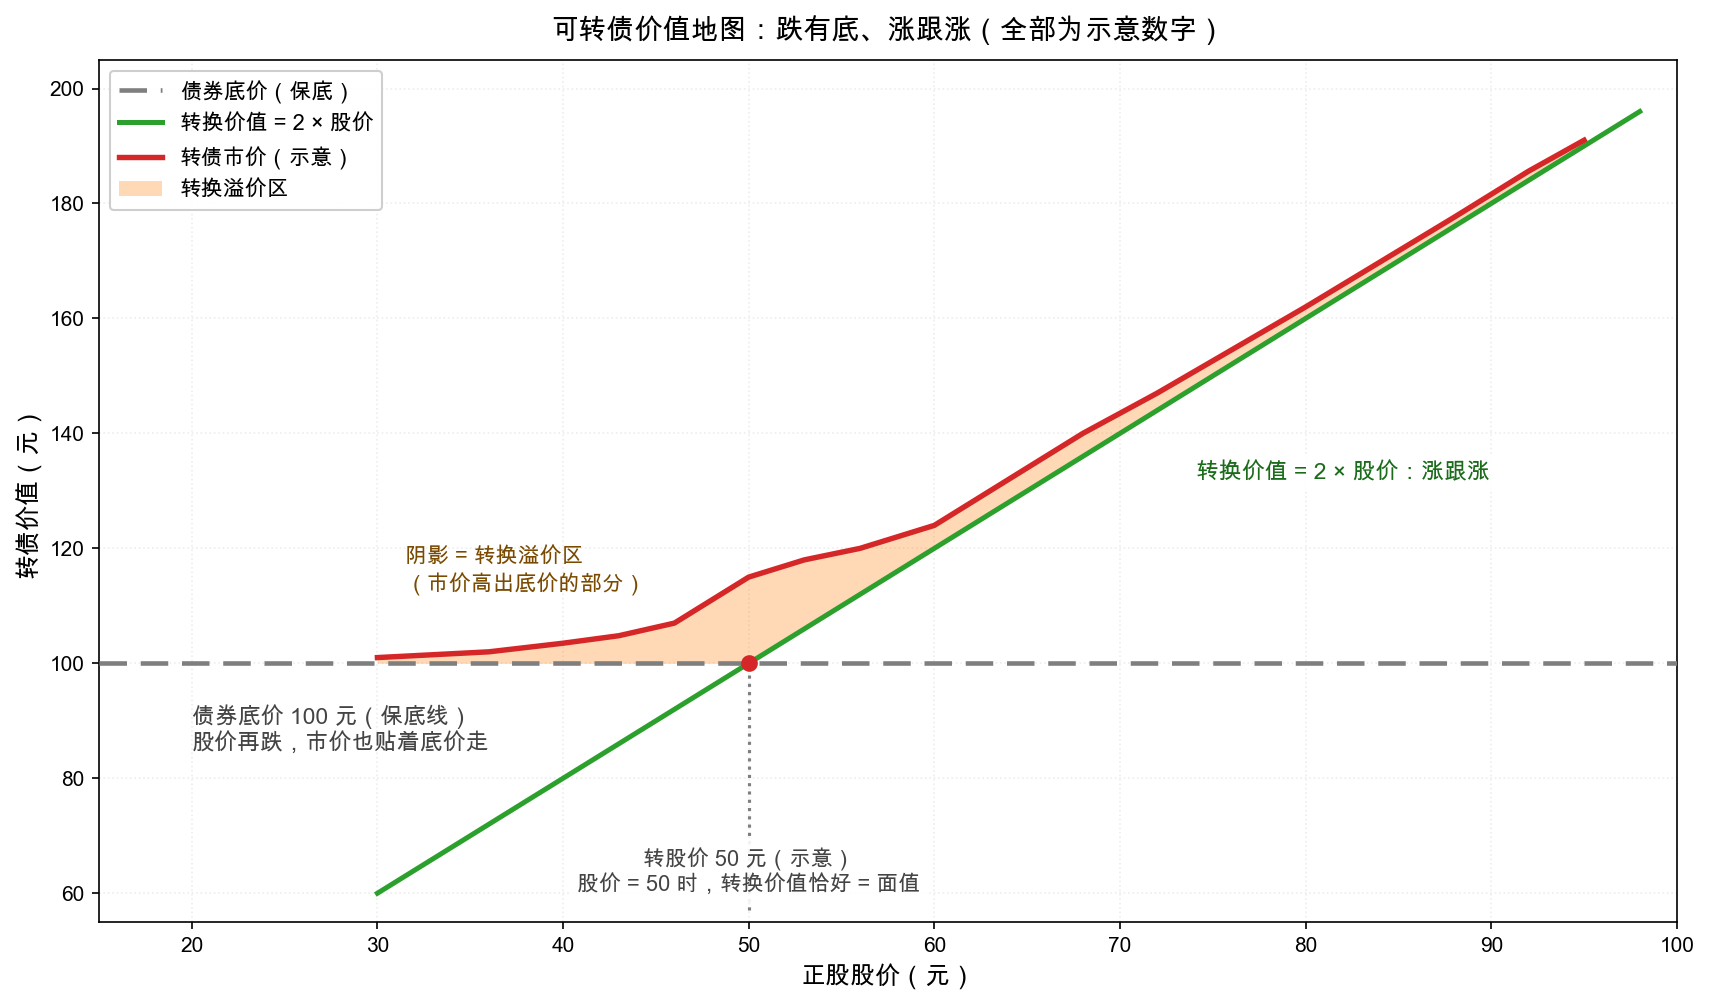
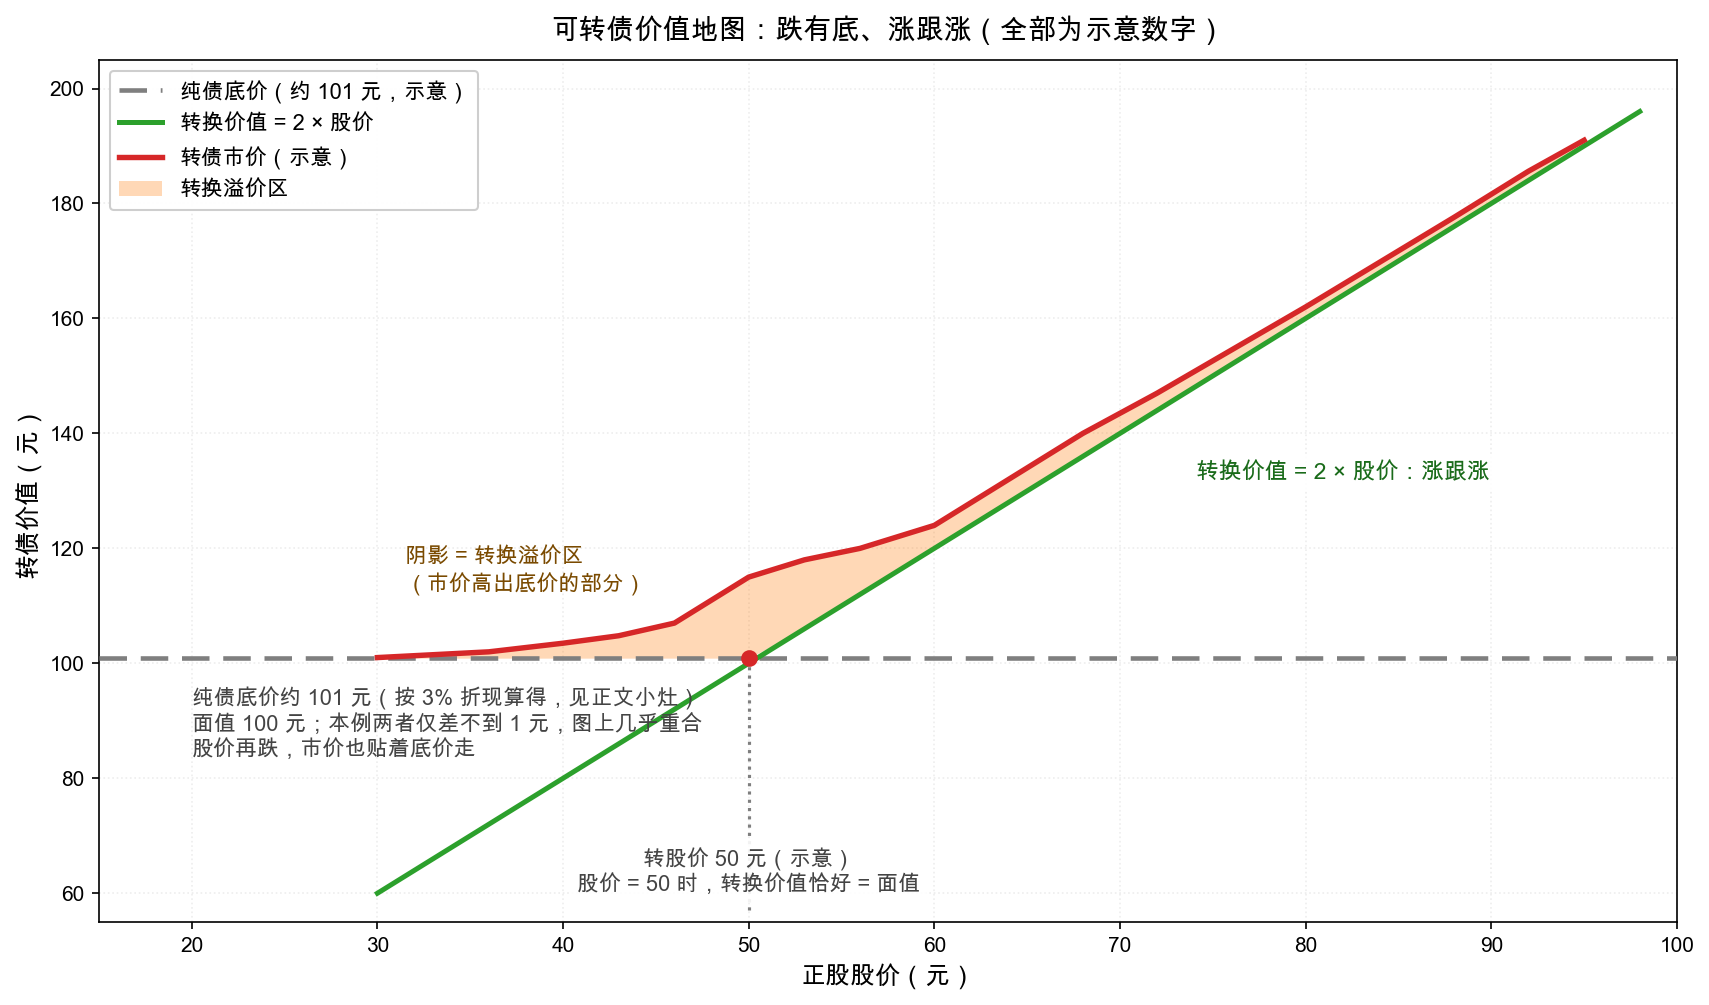
feat(curriculum): 更新可转债章节与相关图表
- 修改可转债章节内容，增加对纯债底价的详细解释，强调其计算方法与市场影响
- 更新可转债价值线图，反映纯债底价的变化，确保与文本一致
- 调整学习指南中可转债的描述，明确底价的计算与市场条件的关系
- 修正相关文档中的示例数据，确保准确性与一致性

Changed region(s): [[0.062, 0.6478, 0.9924, 0.7711], [0.1551, 0.0617, 0.2791, 0.1234], [0.093, 0.0617, 0.124, 0.0925]]

diff --git a/figures/gen_w4d3_convertible.py b/figures/gen_w4d3_convertible.py
@@ -1,9 +1,11 @@
 """Week 4 第 2 章配图：可转债价值线（示意数字）。
 
 横轴：正股股价；纵轴：转债价值。
-三条线：债券底价（水平线 100 元）、转换价值（斜线 = 2 × 股价）、
-市价（取两者的较大者再加溢价，溢价随股价上涨收敛）。
-教学例子与正文一致：面值 100 元、转股价 50 元、转换比率 2 股。
+三条线：纯债底价（水平线，按 3% 折现算得约 101 元，见正文 2.2 节手算小灶）、
+转换价值（斜线 = 2 × 股价）、市价（取两者的较大者再加溢价，溢价随股价上涨收敛）。
+教学例子与正文一致：面值 100 元、转股价 50 元、转换比率 2 股；底价 100.9 元
+（票息 0.3/0.5/1.0/1.5/1.8 元 + 第 6 年到期赎回价 115 元含末期利息，折现率 3%）。
+注：底价与面值只差不到 1 元，纵轴范围下两者视觉上重合，属正常。
 
 输出：figures/out/w4d3_convertible.png
 """
@@ -19,29 +21,30 @@ import matplotlib.pyplot as plt
 
 fig, ax = plt.subplots(figsize=(11.5, 6.8))
 
-FACE = 100.0   # 面值 / 债底（示意）
-CONV_P = 50.0  # 转股价（示意）
+FACE = 100.0        # 面值（示意）
+BOND_FLOOR = 100.9  # 纯债底价（票息 0.3/0.5/1.0/1.5/1.8 + 到期赎回价 115，按 3% 折现）
+CONV_P = 50.0       # 转股价（示意）
 RATIO = FACE / CONV_P  # 转换比率：每张转债换 2 股
 
 # 市价采样点（示意：底价与转换价值取大者，再加逐步收敛的溢价）
 xs = np.array([30, 33, 36, 40, 43, 46, 50, 53, 56, 60, 64, 68, 72, 76, 80, 84, 88, 92, 95])
 mkt = np.array([101, 101.5, 102, 103.5, 104.8, 107, 115, 118, 120, 124,
                 132, 140, 147, 154.5, 162, 169.8, 177.6, 185.6, 191])
-lower = np.maximum(FACE, RATIO * xs)
+lower = np.maximum(BOND_FLOOR, RATIO * xs)
 
 # 转换溢价区（市价与"取大者"之间）
 ax.fill_between(xs, lower, mkt, color=C_ORANGE, alpha=0.30, lw=0, zorder=2)
 
-# 债券底价：水平线
-ax.axhline(FACE, color=C_GRAY, lw=2.2, ls=(0, (6, 3)), zorder=3)
+# 纯债底价：水平线
+ax.axhline(BOND_FLOOR, color=C_GRAY, lw=2.2, ls=(0, (6, 3)), zorder=3)
 # 转换价值：斜线
 ax.plot([30, 98], [RATIO * 30, RATIO * 98], color=C_GREEN, lw=2.4, zorder=3)
 # 市价：曲线
 ax.plot(xs, mkt, color=C_RED, lw=2.6, zorder=4)
 
 # 转股价竖直参考线（画在底价以下，避免与线群纠缠）
-ax.plot([CONV_P, CONV_P], [57, FACE], color=C_GRAY, lw=1.5, ls=":", zorder=2)
-ax.plot([CONV_P], [FACE], marker="o", ms=7, color=C_RED, zorder=5)
+ax.plot([CONV_P, CONV_P], [57, BOND_FLOOR], color=C_GRAY, lw=1.5, ls=":", zorder=2)
+ax.plot([CONV_P], [BOND_FLOOR], marker="o", ms=7, color=C_RED, zorder=5)
 
 ax.set_xlim(15, 100)
 ax.set_ylim(55, 205)
@@ -50,8 +53,8 @@ ax.set_xlabel("正股股价（元）", fontsize=12)
 ax.set_ylabel("转债价值（元）", fontsize=12)
 ax.set_title("可转债价值地图：跌有底、涨跟涨（全部为示意数字）", fontsize=13.5, pad=10)
 
-ax.annotate("债券底价 100 元（保底线）\n股价再跌，市价也贴着底价走",
-            xy=(20, 93), fontsize=11, ha="left", va="top", color="#444444")
+ax.annotate("纯债底价约 101 元（按 3% 折现算得，见正文小灶）\n面值 100 元；本例两者仅差不到 1 元，图上几乎重合\n股价再跌，市价也贴着底价走",
+            xy=(20, 96), fontsize=10.5, ha="left", va="top", color="#444444")
 ax.annotate("转股价 50 元（示意）\n股价 = 50 时，转换价值恰好 = 面值",
             xy=(50, 68), fontsize=10.5, ha="center", va="top", color="#444444",
             bbox=dict(boxstyle="round,pad=0.3", fc="white", ec="none", alpha=0.9))
@@ -65,7 +68,7 @@ from matplotlib.lines import Line2D
 from matplotlib.patches import Patch
 
 handles = [
-    Line2D([], [], color=C_GRAY, lw=2.2, ls=(0, (6, 3)), label="债券底价（保底）"),
+    Line2D([], [], color=C_GRAY, lw=2.2, ls=(0, (6, 3)), label="纯债底价（约 101 元，示意）"),
     Line2D([], [], color=C_GREEN, lw=2.4, label="转换价值 = 2 × 股价"),
     Line2D([], [], color=C_RED, lw=2.6, label="转债市价（示意）"),
     Patch(facecolor=C_ORANGE, alpha=0.30, label="转换溢价区"),

diff --git a/learning-guide/week4/05-实战联系-A股可转债条款怎么读.md b/learning-guide/week4/05-实战联系-A股可转债条款怎么读.md
@@ -68,7 +68,7 @@ A股转债还有个对学习者友好的特点：**条款高度模板化**。自
 
 把上面的零件装配起来，A股转债的"底"由四层构成（数字全部为示意，用于理解结构）：
 
-1. **纯债底价**。就算变身卡彻底作废，它还是一张 6 年期、每年付息、到期还有一笔"到期赎回价"（常为面值的 106%-115% 量级，含最后一期利息）的债券。把全部现金流按市场利率**贴现**（公式就是 Week 2 数学小灶那把尺子，见[第 5 章：复利与贴现](../week2/05-数学小灶-复利与贴现.md)），得到的现值就是纯债底价——通常落在 95-105 元区间，具体随票息结构与市场利率浮动。
+1. **纯债底价**。就算变身卡彻底作废，它还是一张 6 年期、每年付息、到期还有一笔"到期赎回价"（常为面值的 106%-115% 量级，含最后一期利息）的债券。把全部现金流按市场利率**贴现**加总，就是纯债底价——完整的逐笔手算见[第 2 章：可转债](02-可转债-进可攻退可守的变形金刚.md) 2.2 节的小灶（示例券约 101 元）。A股 转债的票息结构同出一个模板，按同信用等级的市场利率折现，结果通常落在 95-105 元区间，具体随票息结构与市场利率浮动。
 2. **回售权把底价"拉近期"**。最坏情形不必等满 6 年，末两年的回售窗口给了你提前按面值+利息退出的选择权。
 3. **下修权给底价装了"弹簧"**。别的市场里，正股跌 30%，转债跟着躺平；A股的发行人有动机把转股价改到你能转股的位置——**发行人的促转股动机，是站在你这边站岗的隐形保镖**。
 4. **发行门槛给底价筛过沙子**。能在 A股发行转债的公司，本身经过了一轮盈利能力与负债水平的筛选（不同监管阶段松紧不同），信用底子整体好于随机一家公司——所以"底价能兑现"在多数时候不是奢望。
@@ -83,7 +83,7 @@ A股转债还有个对学习者友好的特点：**条款高度模板化**。自
 
 ### 失效二：买太贵——"底"保的是 100 元买入的人
 
-假设某转债纯债底价 102 元（示意）。你在 100 元买入，最坏结局是到期拿回本息，几乎不亏；你在 **130 元**买入，一旦正股转弱、溢价被磨平，跌到债底就是 $(102-130) \div 130 \approx -22\%$。同一条款、同一张券，"保底"对不同买入价的持有人是完全不同的承诺。这正是第 2 章格雷厄姆纪律的A股版：**130 元以上的转债，你已经不是在买债，是在买一只"波动小一点"的股票**。
+假设某转债纯债底价 101 元（与第 2 章 2.2 节小灶的示例券同一只）。你在 100 元买入，最坏结局是到期拿回本息，几乎不亏；你在 **130 元**买入，一旦正股转弱、溢价被磨平，跌到债底就是 $(101-130) \div 130 \approx -22\%$。同一条款、同一张券，"保底"对不同买入价的持有人是完全不同的承诺。这正是第 2 章格雷厄姆纪律的A股版：**130 元以上的转债，你已经不是在买债，是在买一只"波动小一点"的股票**。
 
 ### 失效三：强赎操作风险——条款执行的最后一公里
 
@@ -125,7 +125,7 @@ A股转债还有个对学习者友好的特点：**条款高度模板化**。自
 - **转换溢价率** $= (126 - 120) \div 120 = 6 \div 120$，即 **5%**——你为这张变身卡付了 5% 的钱。
 - **强赎触发了吗**：没有。强赎线是股价口径：$8 \times 1.3 = 10.4$ 元，而且要在连续 30 个交易日中**至少 15 日**收盘价不低于 10.4 元。正股现价 9.6 元，还差 0.8 元。
 - **宣布强赎时的单日亏损**：正股 10.5 元已站上 10.4 元，转股价值 $= 12.5 \times 10.5 = 131.25$ 元；忘记操作的投资者按 100.3 元被赎回，亏损 $(131.25 - 100.3) \div 131.25 = 30.95 \div 131.25 \approx 0.236$，一天蒸发约 **23.6%**，和 5.2 节那个约 23% 的手算是同一笔账。
-- **顺手做个体检**：126 元的市价已经离 5.5 节新手三忌里"忌追 130 元以上的高价券"那条红线只差 4 元，而纯债底价通常落在 95 到 105 元区间。也就是说，你脚下离"底"有二十多个点，真正兜住你的是正股继续上涨，不是债底。
+- **顺手做个体检**：126 元的市价已经离 5.5 节新手三忌里"忌追 130 元以上的高价券"那条红线只差 4 元，而纯债底价通常落在 95 到 105 元区间（第 2 章小灶的示例券约 101 元）。也就是说，你脚下离"底"有二十多个点，真正兜住你的是正股继续上涨，不是债底。
 
 **易错点：** ① 把强赎线算成"转债价格 130 元"——它是**正股价**乘 1.3（本题 10.4 元），两把尺子别混；② 计算比率时用了 9.6 或 10.5——比率只由转股价 8 元决定，股价只影响转换价值；③ 算单日亏损时拿 100.3 当分母——分母应该是你本可以拿到的 131.25 元；④ 忘了"15/30 日"这个时间条件，看到一天站上 10.4 元就宣布强赎已触发。
 

diff --git a/learning-guide/week4/README.md b/learning-guide/week4/README.md
@@ -11,7 +11,7 @@
 | 本周导读 | [README.md](README.md) | 就是你正在看的这页 |
 | 第 0 章 | [优先股——介于债与股之间的混血儿](00-优先股-介于债与股之间的混血儿.md) | 债不像债、股不像股；格雷厄姆为什么嫌弃它 |
 | 第 1 章 | [防护条款——借钱的合同怎么写](01-防护条款-借钱的合同怎么写.md) | 分红限制、偿债基金、营运资本护栏与它们的失灵 |
-| 第 2 章 | [可转债——进可攻退可守的变形金刚](02-可转债-进可攻退可守的变形金刚.md) | 转换比率/平价/溢价手算；债券底价托底；格雷厄姆的纪律 |
+| 第 2 章 | [可转债——进可攻退可守的变形金刚](02-可转债-进可攻退可守的变形金刚.md) | 转换比率/平价/溢价手算；纯债底价逐笔折现手算；债券底价托底；格雷厄姆的纪律 |
 | 第 3 章 | [名不副实的证券——花哨名字下的风险](03-名不副实的证券-花哨名字下的风险.md) | 收益债券、担保证券、"高级证券最高估值法则" |
 | 第 4 章 | [投资监管——买完不是结束](04-投资监管-买完不是结束.md) | 定期复检、换仓与卖出纪律；谁的意见该听 |
 | 第 5 章 | [实战联系——A股可转债条款怎么读](05-实战联系-A股可转债条款怎么读.md) | 转股价/下修/强赎/回售四大条款；"下有保底"何时成立 |
@@ -20,7 +20,7 @@
 
 - 看懂一家公司的**资本结构三层楼**：债券、优先股、普通股各站在哪一级台阶，为什么优先股"债不像债、股不像股"；
 - 会读借钱合同里的**护栏清单**（限制新增债务、营运资本、偿债基金），并且知道这些护栏什么时候失灵；
-- 会手算可转债的**转换比率、转换价值、转换平价、转换溢价**，看懂"债券底价 + 转换价值"的价值地图；
+- 会手算可转债的**转换比率、转换价值、转换平价、转换溢价**，也会把**纯债底价**（票息与到期赎回价逐笔折现）自己算出来，看懂"债券底价 + 转换价值"的价值地图；
 - 能一眼识破**名不副实**的证券：收益债券、含糊的担保、"积累股息"的幻觉；
 - 建立持有的**复检与卖出纪律**（买入理由消失 = 卖出信号），并读完一份 A股可转债的募集说明书条款。
 

diff --git a/CURRICULUM.md b/CURRICULUM.md
@@ -245,7 +245,7 @@ security-analysis-study/
 |---|---|---|
 | 00-优先股 | 优先股 = 固定股息 + 无到期日 + 无投票权：债不像债、股不像股；格雷厄姆为什么不喜欢它（"固定收益 + 倒闭风险"最差组合）；当代视角：银行永续债、REITs | w4d1_pref_stack.png：资本结构层叠图（债/优先股/普通股的位置） |
 | 01-防护条款 | ch18/19：借钱合同里的护栏（分红限制/抵押/偿债基金）；"条款写在纸上是弱保护，写在能力里才是强保护"；违约与补救的当代版本（债券违约处置） | — |
-| 02-可转债 | ch22/23/24：可转债 = 借条 + 换股权；转换比率/转换平价/转换溢价（手算例子）；"债券底价"托底：跌有底、涨跟涨；格雷厄姆的提醒：溢价买期权长期不划算 | w4d3_convertible.png：可转债价值线（债券底 + 转换价值 + 市价溢价区） |
+| 02-可转债 | ch22/23/24：可转债 = 借条 + 换股权；转换比率/转换平价/转换溢价（手算例子）；纯债底价 = 票息与到期赎回价逐笔折现（手算小灶）；"债券底价"托底：跌有底、涨跟涨；格雷厄姆的提醒：溢价买期权长期不划算 | w4d3_convertible.png：可转债价值线（纯债底价 ≈101 元 + 转换价值 + 市价溢价区） |
 | 03-名不副实 | ch16/26：收益债券（income bond）名不副实；担保证券要看担保人实力；"高级证券的名字会骗人，条款不会" | — |
 | 04-投资监管 | ch21：投资是持续的行为——定期检查持仓（格雷厄姆建议每季度/半年）；什么时候该卖；"买入理由消失 = 卖出信号" | — |
 | 05-实战可转债 | A股可转债实战：转股价/下修/强赎/回售四大条款怎么读；用一只真实可转债的条款结构做教学解读（数字用示意）；为什么 A股 可转债"下有保底"经常成立、什么时候不成立 | — |
